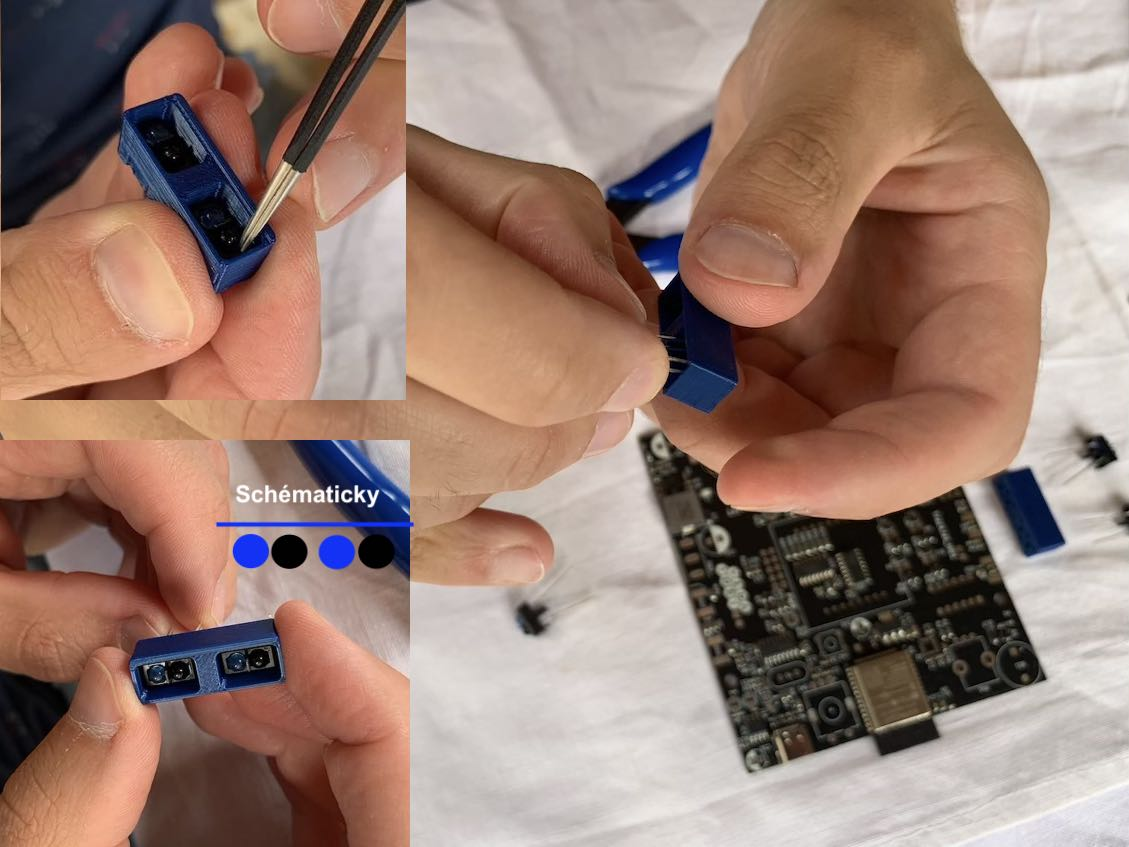
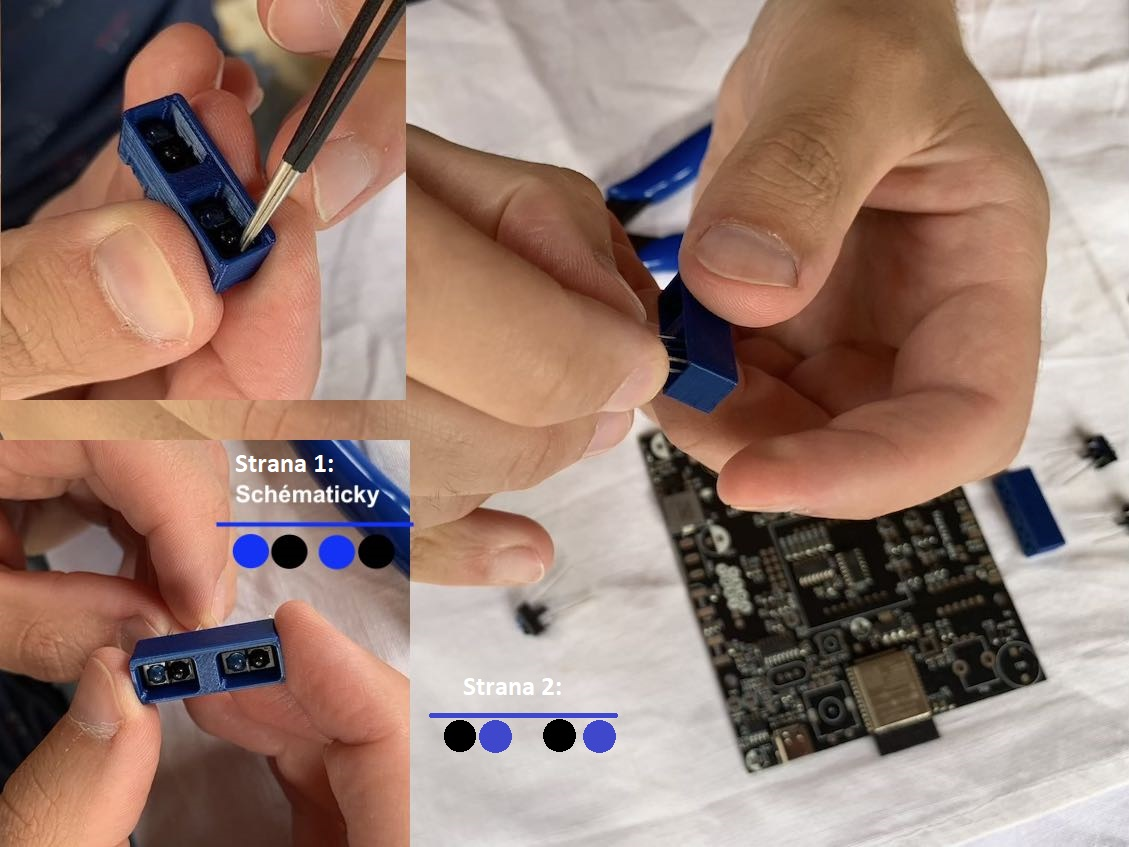
Manual electronics cz, review

Changed region(s): [[0.372, 0.7981, 0.558, 0.8902], [0.217, 0.5218, 0.31, 0.5832]]

diff --git a/Manuals/TrackJet_electronics_cz.md b/Manuals/TrackJet_electronics_cz.md
@@ -42,9 +42,9 @@ Deska pro TrackRay je již z výroby osazena SMD (bezvývodovými) součástkami
 
 ![alt](SupportFiles/IMG_0829.jpeg)
 **Postup:**
-1. Vložte postupně moduly do držáku z 3D tisku. *Je třeba dodržet orientaci barev LED s obrázkem.* Barvu LED je možné rozpoznat pod světlem např. z LED telefonu.
+1. Vložte postupně moduly do držáku z 3D tisku. *Je třeba dodržet orientaci barev LED s obrázkem pro jednotlivé strany. Modrá čára na schématu označuje pozici "nosu" na součástce.* Barvu LED je možné rozpoznat pod světlem např. z LED telefonu.
 ![alt](SupportFiles/IMG_0835.jpeg)
-1. Opakujte postup pro druhou stranu. Zarovnejte nožičky podle obrázku, aby obejmuly shora a zespodu PCB a směřovali doprostřed pájecí plochy.
+1. Opakujte postup pro druhou stranu 2 podle schématu. Zarovnejte nožičky podle obrázku, aby obejmuly shora a zespodu PCB a směřovali doprostřed pájecí plochy. *Nos na součástce je nahoře.*
 ![alt](SupportFiles/IMG_0843.jpeg)
 1. Použijte zarovnávací nástroj z 3D tisku, umístěte do něj moduly s LED podle obrázku. Na vyznačené červené čáře zakraťte vývody kleštěmi.
 ![alt](SupportFiles/IMG_0845.jpeg)
